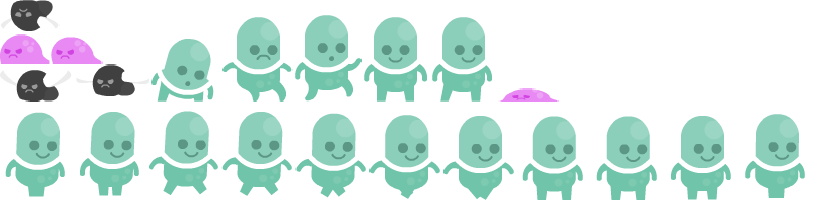
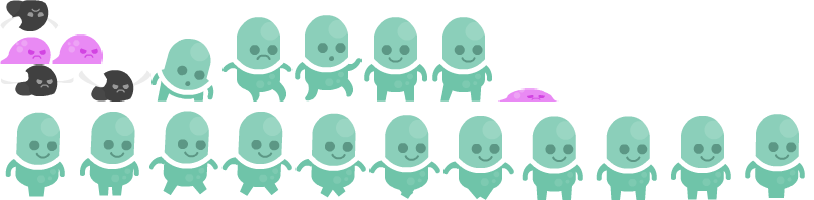
- added enemy movement AI (very simple) - added enemies to last level

Changed region(s): [[0.0, 0.0, 0.1843, 0.51], [0.6143, 0.45, 0.7064, 0.51]]

diff --git a/core/src/com/quillraven/platformer/ecs/EntityEngine.java b/core/src/com/quillraven/platformer/ecs/EntityEngine.java
@@ -23,6 +23,7 @@ import com.quillraven.platformer.ecs.component.GameObjectComponent;
 import com.quillraven.platformer.ecs.component.JumpComponent;
 import com.quillraven.platformer.ecs.component.MoveComponent;
 import com.quillraven.platformer.ecs.component.PlayerComponent;
+import com.quillraven.platformer.ecs.system.AISystem;
 import com.quillraven.platformer.ecs.system.AnimationSystem;
 import com.quillraven.platformer.ecs.system.EnemyCollisionSystem;
 import com.quillraven.platformer.ecs.system.GameObjectCollisionSystem;
@@ -97,8 +98,9 @@ public class EntityEngine extends PooledEngine {
         this.addSystem(new JumpSystem(b2dCmpMapper, jumpCmpMapper));
         // game object collision system
         this.addSystem(new GameObjectCollisionSystem());
-        // enemy collision system
+        // enemy systems
         this.addSystem(new EnemyCollisionSystem());
+        this.addSystem(new AISystem(b2dCmpMapper, moveCmpMapper));
         // game progress system
         this.addSystem(new GameProgressSystem(b2dCmpMapper, playerCmpMapper));
         // animation system
@@ -229,12 +231,13 @@ public class EntityEngine extends PooledEngine {
     }
 
     public void createEnemy(final World world, final RayHandler rayHandler, final float x, final float y, final String enemyType) {
+        final boolean isFly = "fly".equals(enemyType);
         final Entity enemy = this.createEntity();
         final short categoryBits = Platformer.BIT_ENEMY;
         final short maskBits = Platformer.BIT_GROUND | Platformer.BIT_PLAYER;
-        final AnimationManager.AnimationType aniType = "fly".equals(enemyType) ? AnimationManager.AnimationType.FLY_WALK : AnimationManager.AnimationType.SLIME_WALK;
+        final AnimationManager.AnimationType aniType = isFly ? AnimationManager.AnimationType.FLY_WALK : AnimationManager.AnimationType.SLIME_WALK;
         final int width = aniType.getFrameWidth();
-        final int height = aniType.getFrameHeight();
+        final int height = isFly ? aniType.getFrameHeight() + 30 : aniType.getFrameHeight();
 
         // box2d component
         final Box2DComponent b2dCmp = this.createComponent(Box2DComponent.class);
@@ -259,20 +262,24 @@ public class EntityEngine extends PooledEngine {
 
         // move component
         final MoveComponent moveCmp = this.createComponent(MoveComponent.class);
-        moveCmp.maxSpeed = 6;
+        moveCmp.maxSpeed = isFly ? 2 : 0.5f;
         enemy.add(moveCmp);
 
         // animation component
         final AnimationComponent aniCmp = this.createComponent(AnimationComponent.class);
         aniCmp.aniType = aniType;
         aniCmp.width = (width + 4) / PPM;
-        aniCmp.height = (height + 4) / PPM;
+        aniCmp.height = (aniType.getFrameHeight() + 4) / PPM;
+        aniCmp.offsetY = isFly ? 0.6f : 0;
         enemy.add(aniCmp);
 
-        enemy.add(createComponent(EnemyComponent.class));
+        final EnemyComponent enemyCmp = createComponent(EnemyComponent.class);
+        enemyCmp.spawnX = x;
+        enemyCmp.spawnY = y;
+        enemy.add(enemyCmp);
 
         b2dCmp.light = new PointLight(rayHandler, 128, new Color(1, 0, 0, 1f), 2f, 0, 0);
-        b2dCmp.light.attachToBody(b2dCmp.body);
+        ((PointLight) b2dCmp.light).attachToBody(b2dCmp.body, 0f, isFly ? 0.6f : 0f);
 
         this.addEntity(enemy);
     }

diff --git a/core/src/com/quillraven/platformer/ecs/system/AISystem.java b/core/src/com/quillraven/platformer/ecs/system/AISystem.java
@@ -1,0 +1,73 @@
+package com.quillraven.platformer.ecs.system;
+/*
+ * Created by Quillraven on 24.06.2018.
+ *
+ * MIT License
+ *
+ * Copyright (c) 2018 Quillraven
+ *
+ * Permission is hereby granted, free of charge, to any person obtaining a copy
+ * of this software and associated documentation files (the "Software"), to deal
+ * in the Software without restriction, including without limitation the rights
+ * to use, copy, modify, merge, publish, distribute, sublicense, and/or sell
+ * copies of the Software, and to permit persons to whom the Software is
+ * furnished to do so, subject to the following conditions:
+ *
+ * THE SOFTWARE IS PROVIDED "AS IS", WITHOUT WARRANTY OF ANY KIND, EXPRESS OR
+ * IMPLIED, INCLUDING BUT NOT LIMITED TO THE WARRANTIES OF MERCHANTABILITY,
+ * FITNESS FOR A PARTICULAR PURPOSE AND NONINFRINGEMENT. IN NO EVENT SHALL THE
+ * AUTHORS OR COPYRIGHT HOLDERS BE LIABLE FOR ANY CLAIM, DAMAGES OR OTHER
+ * LIABILITY, WHETHER IN AN ACTION OF CONTRACT, TORT OR OTHERWISE, ARISING FROM,
+ * OUT OF OR IN CONNECTION WITH THE SOFTWARE OR THE USE OR OTHER DEALINGS IN THE
+ * SOFTWARE.
+ */
+
+import com.badlogic.ashley.core.ComponentMapper;
+import com.badlogic.ashley.core.Entity;
+import com.badlogic.ashley.core.Family;
+import com.badlogic.ashley.systems.IteratingSystem;
+import com.quillraven.platformer.ecs.component.Box2DComponent;
+import com.quillraven.platformer.ecs.component.EnemyComponent;
+import com.quillraven.platformer.ecs.component.MoveComponent;
+import com.quillraven.platformer.ecs.component.RemoveComponent;
+
+/**
+ * TODO add class description
+ */
+public class AISystem extends IteratingSystem {
+    private final ComponentMapper<EnemyComponent> enemyCmpMapper;
+    private final ComponentMapper<Box2DComponent> box2DComponentComponentMapper;
+    private final ComponentMapper<MoveComponent> moveCmpMapper;
+    private final ComponentMapper<RemoveComponent> removeCmpMapper;
+
+    public AISystem(final ComponentMapper<Box2DComponent> box2DComponentComponentMapper, final ComponentMapper<MoveComponent> moveCmpMapper) {
+        super(Family.all(EnemyComponent.class).get());
+        this.enemyCmpMapper = ComponentMapper.getFor(EnemyComponent.class);
+        this.box2DComponentComponentMapper = box2DComponentComponentMapper;
+        this.moveCmpMapper = moveCmpMapper;
+        this.removeCmpMapper = ComponentMapper.getFor(RemoveComponent.class);
+    }
+
+    @Override
+    protected void processEntity(final Entity entity, final float deltaTime) {
+        final RemoveComponent removeCmp = removeCmpMapper.get(entity);
+        final MoveComponent moveCmp = moveCmpMapper.get(entity);
+        if (removeCmp != null) {
+            moveCmp.speed = 0;
+            return;
+        }
+
+        final EnemyComponent enemyCmp = enemyCmpMapper.get(entity);
+        final Box2DComponent b2dCmp = box2DComponentComponentMapper.get(entity);
+        if (moveCmp.speed == 0) {
+            // initialize enemies by moving left
+            moveCmp.speed = -moveCmp.maxSpeed;
+        }
+
+        if (enemyCmp.spawnX - b2dCmp.body.getPosition().x >= 1) {
+            moveCmp.speed = moveCmp.maxSpeed;
+        } else if (enemyCmp.spawnX - b2dCmp.body.getPosition().x <= -1) {
+            moveCmp.speed = -moveCmp.maxSpeed;
+        }
+    }
+}

diff --git a/core/src/com/quillraven/platformer/ecs/system/GameRenderSystem.java b/core/src/com/quillraven/platformer/ecs/system/GameRenderSystem.java
@@ -129,7 +129,7 @@ public class GameRenderSystem extends RenderSystem implements MapManager.MapList
             } else {
                 frame.setRotation(b2dCmp.numGroundContactsLeft == 0 && b2dCmp.numGroundContactsRight > 0 ? 40 : b2dCmp.numGroundContactsLeft > 0 && b2dCmp.numGroundContactsRight == 0 ? 320 : 0);
             }
-            frame.setBounds(x - (aniCmp.width - b2dCmp.width) * 0.5f, frame.getRotation() == 0 ? y - 2f / PPM : y - b2dCmp.height * 0.2f, aniCmp.width, aniCmp.height);
+            frame.setBounds(x - (aniCmp.width - b2dCmp.width) * 0.5f, frame.getRotation() == 0 ? y - 2f / PPM + aniCmp.offsetY : y - b2dCmp.height * 0.2f + aniCmp.offsetY, aniCmp.width, aniCmp.height);
 
             spriteBatch.draw(frame.getTexture(), frame.getVertices(), 0, 20);
         }

diff --git a/core/src/com/quillraven/platformer/ecs/component/AnimationComponent.java b/core/src/com/quillraven/platformer/ecs/component/AnimationComponent.java
@@ -34,10 +34,12 @@ public class AnimationComponent implements Component, Pool.Poolable {
     public float animationTime;
     public float width;
     public float height;
+    public float offsetY;
     public boolean flipHoricontal;
 
     @Override
     public void reset() {
+        this.offsetY = 0;
         this.aniType = null;
         this.animationTime = 0;
         this.width = 0;

diff --git a/core/src/com/quillraven/platformer/ecs/component/EnemyComponent.java b/core/src/com/quillraven/platformer/ecs/component/EnemyComponent.java
@@ -29,6 +29,9 @@ import com.badlogic.gdx.utils.Pool;
  * TODO add class description
  */
 public class EnemyComponent implements Component, Pool.Poolable {
+    public float spawnX;
+    public float spawnY;
+
     @Override
     public void reset() {
 
